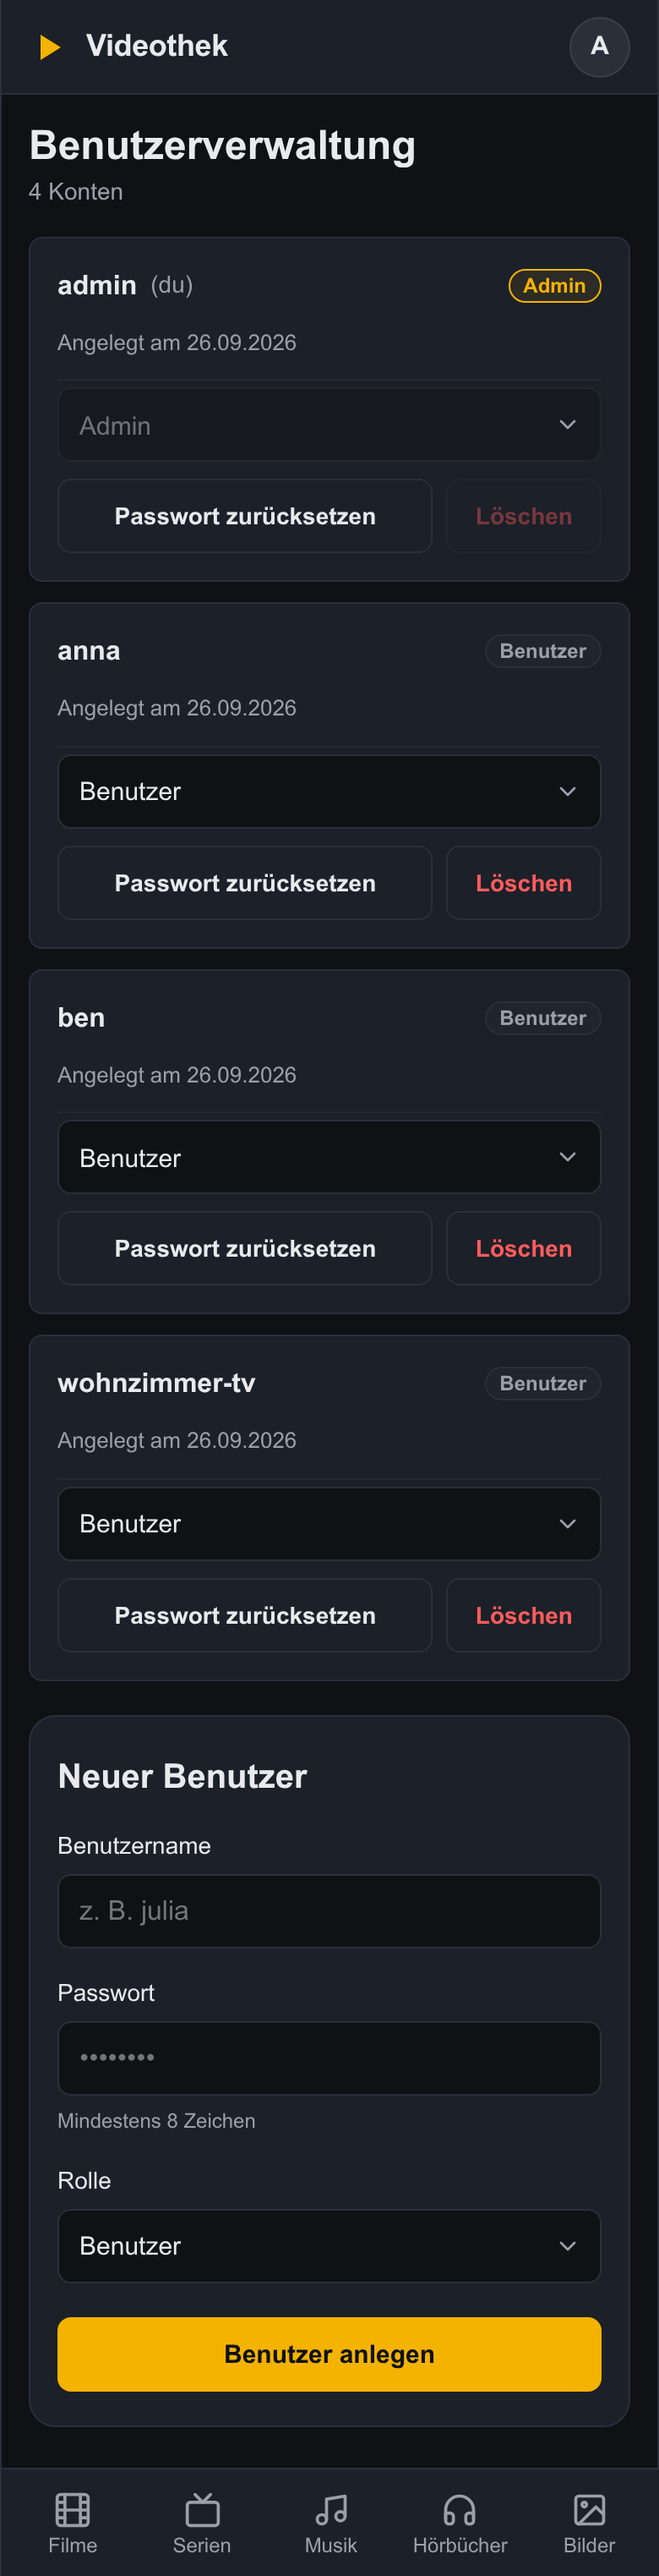
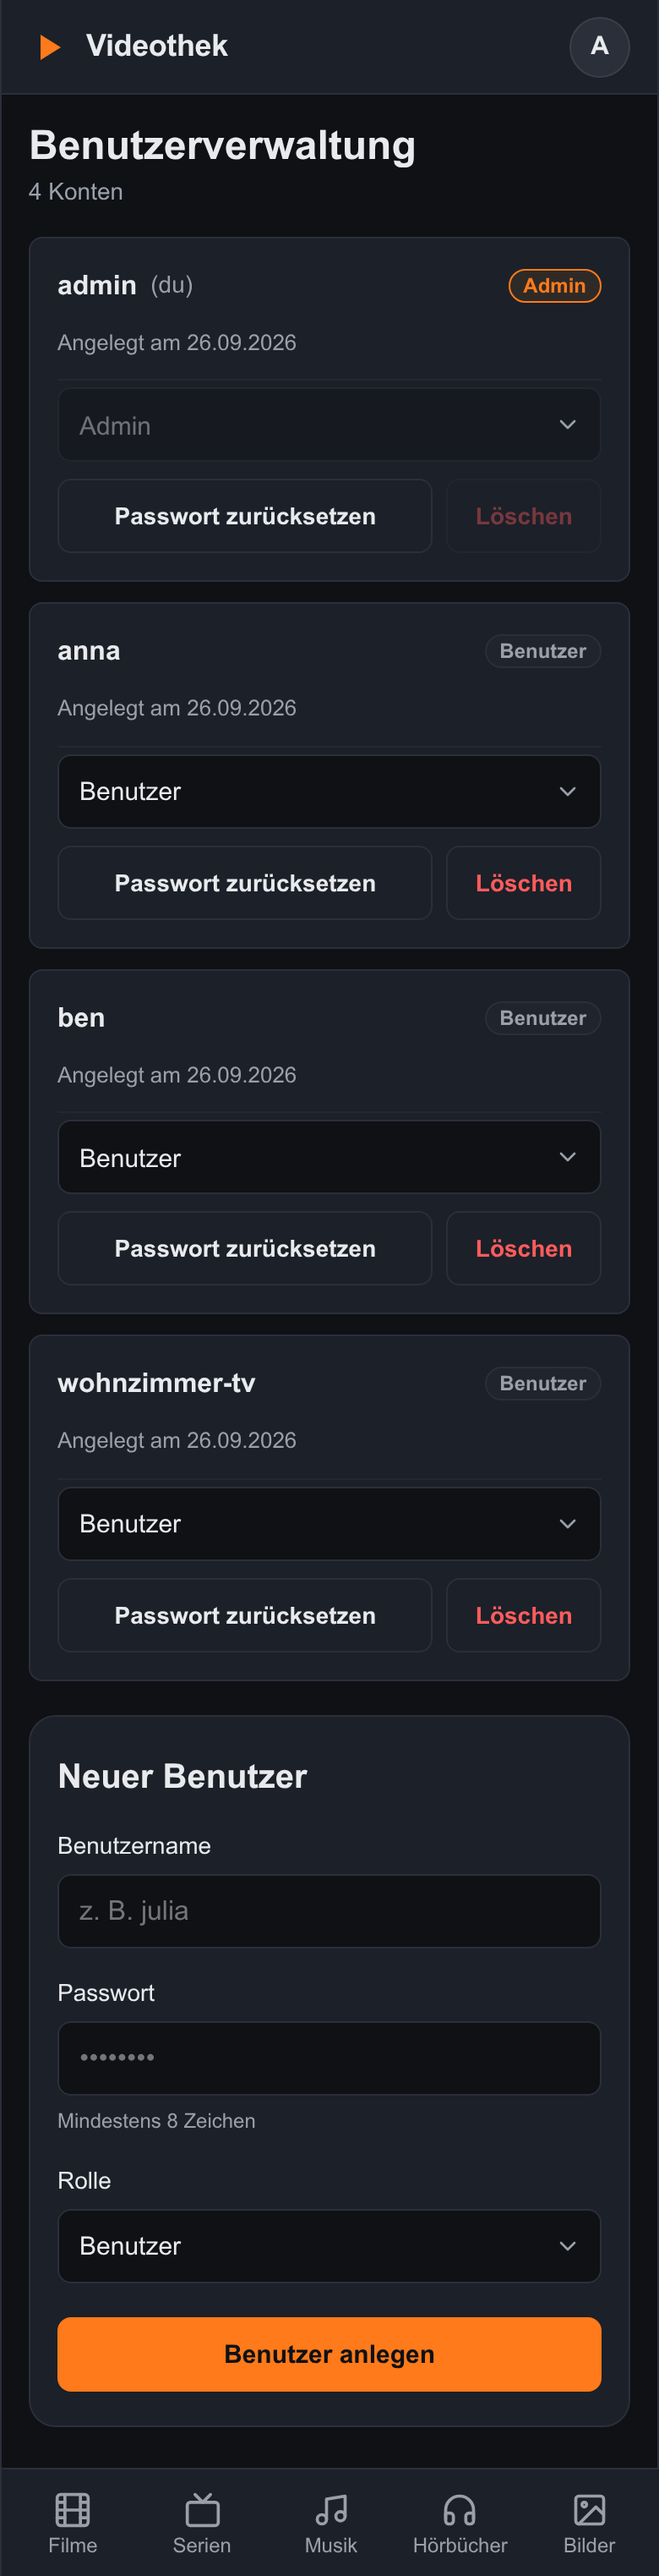
docs(design): re-export foundation-accounts mockups with primary #ff7a1a
The primary token changed from amber to vivid orange (#5); mockups and colour wording in the spec now match the design contract. Layout, copy and framing are unchanged; verified by pixel counts and side-by-side review.

Changed region(s): [[0.0615, 0.8733, 0.9231, 0.9357], [0.8, 0.0936, 0.8923, 0.1248], [0.0615, 0.0, 0.0923, 0.0312]]

diff --git a/docs/design/assets/foundation-accounts/login-desktop.html b/docs/design/assets/foundation-accounts/login-desktop.html
@@ -9,7 +9,7 @@
     :root {
       --bg: #0f1115;
       --fg: #e8eaed;
-      --primary: #f5b301;
+      --primary: #ff7a1a;
       --surface: #1c2029;
       --accent: #4fb3ff;
       --muted: #9aa0aa;
@@ -23,12 +23,12 @@
     }
   </style>
 </head>
-<body class="min-h-screen flex flex-col items-center justify-center p-6 selection:bg-[#f5b301] selection:text-[#0f1115]">
+<body class="min-h-screen flex flex-col items-center justify-center p-6 selection:bg-[#ff7a1a] selection:text-[#0f1115]">
   <main class="w-full max-w-[400px] flex flex-col items-center">
     <!-- Brand / Wordmark -->
     <header class="flex items-center gap-3 mb-8 select-none">
-      <div class="w-9 h-9 rounded-lg bg-[#f5b301]/10 flex items-center justify-center text-[#f5b301]">
-        <svg class="w-5 h-5 fill-[#f5b301] translate-x-0.5" viewBox="0 0 24 24">
+      <div class="w-9 h-9 rounded-lg bg-[#ff7a1a]/10 flex items-center justify-center text-[#ff7a1a]">
+        <svg class="w-5 h-5 fill-[#ff7a1a] translate-x-0.5" viewBox="0 0 24 24">
           <path d="M8 5v14l11-7z" />
         </svg>
       </div>
@@ -48,7 +48,7 @@
             id="username" 
             name="username" 
             value="anna" 
-            class="w-full h-11 px-3.5 bg-[#14171e] text-[#e8eaed] text-base rounded-[8px] border border-[#2a2f3a] focus:outline-none focus:border-[#f5b301] focus:ring-2 focus:ring-[#f5b301]/20 transition-colors"
+            class="w-full h-11 px-3.5 bg-[#14171e] text-[#e8eaed] text-base rounded-[8px] border border-[#2a2f3a] focus:outline-none focus:border-[#ff7a1a] focus:ring-2 focus:ring-[#ff7a1a]/20 transition-colors"
           />
         </div>
 
@@ -75,7 +75,7 @@
         <!-- Submit Button -->
         <button 
           type="submit" 
-          class="w-full h-12 mt-2 bg-[#f5b301] hover:bg-[#e0a400] active:bg-[#c99300] text-[#0f1115] font-bold text-base rounded-[8px] transition-colors focus:outline-none focus:ring-2 focus:ring-[#f5b301] focus:ring-offset-2 focus:ring-offset-[#1c2029] flex items-center justify-center cursor-pointer"
+          class="w-full h-12 mt-2 bg-[#ff7a1a] hover:bg-[#e96f17] active:bg-[#d16415] text-[#0f1115] font-bold text-base rounded-[8px] transition-colors focus:outline-none focus:ring-2 focus:ring-[#ff7a1a] focus:ring-offset-2 focus:ring-offset-[#1c2029] flex items-center justify-center cursor-pointer"
         >
           Anmelden
         </button>

diff --git a/docs/design/assets/foundation-accounts/login-mobile.html b/docs/design/assets/foundation-accounts/login-mobile.html
@@ -8,7 +8,7 @@
     :root {
       --bg: #0f1115;
       --fg: #e8eaed;
-      --primary: #f5b301;
+      --primary: #ff7a1a;
       --surface: #1c2029;
       --accent: #4fb3ff;
       --muted: #9aa0aa;
@@ -59,7 +59,7 @@
       width: 32px;
       height: 32px;
       border-radius: 8px;
-      background: rgba(245, 179, 1, 0.12);
+      background: rgba(255, 122, 26, 0.12);
     }
 
     .brand-name {
@@ -122,7 +122,7 @@
 
     .input-field:focus {
       border-color: var(--primary);
-      box-shadow: 0 0 0 2px rgba(245, 179, 1, 0.25);
+      box-shadow: 0 0 0 2px rgba(255, 122, 26, 0.25);
     }
 
     .input-field.error {
@@ -198,7 +198,7 @@
     <header class="brand-header">
       <div class="brand-logo" aria-hidden="true">
         <svg width="18" height="18" viewBox="0 0 24 24" fill="none">
-          <path d="M7 4.5V19.5L19 12L7 4.5Z" fill="#f5b301" />
+          <path d="M7 4.5V19.5L19 12L7 4.5Z" fill="#ff7a1a" />
         </svg>
       </div>
       <h1 class="brand-name">Videothek</h1>

diff --git a/docs/design/assets/foundation-accounts/shell-mobile.html b/docs/design/assets/foundation-accounts/shell-mobile.html
@@ -8,7 +8,7 @@
     :root {
       --bg: #0f1115;
       --fg: #e8eaed;
-      --primary: #f5b301;
+      --primary: #ff7a1a;
       --surface: #1c2029;
       --accent: #4fb3ff;
       --muted: #9aa0aa;
@@ -241,7 +241,7 @@
       <a href="#" class="brand" aria-label="Videothek Startseite">
         <div class="brand-icon-box" aria-hidden="true">
           <svg width="24" height="24" viewBox="0 0 24 24" fill="none" xmlns="http://www.w3.org/2000/svg">
-            <path d="M7 5.5V18.5L18 12L7 5.5Z" fill="#f5b301" stroke="#f5b301" stroke-width="2" stroke-linejoin="round"/>
+            <path d="M7 5.5V18.5L18 12L7 5.5Z" fill="#ff7a1a" stroke="#ff7a1a" stroke-width="2" stroke-linejoin="round"/>
           </svg>
         </div>
         <span class="brand-title">Videothek</span>

diff --git a/docs/design/assets/foundation-accounts/admin-users-desktop.html b/docs/design/assets/foundation-accounts/admin-users-desktop.html
@@ -8,7 +8,7 @@
 <style>:root {
     --bg: #0f1115;
     --fg: #e8eaed;
-    --primary: #f5b301;
+    --primary: #ff7a1a;
     --surface: #1c2029;
     --accent: #4fb3ff;
     --muted: #9aa0aa;
@@ -370,7 +370,7 @@ tbody td {
 <!-- Logo & Brand -->
 <a class="brand" href="#">
 <svg fill="none" height="24" viewbox="0 0 24 24" width="24" xmlns="http://www.w3.org/2000/svg">
-<path d="M5 3.868A1 1 0 0 1 6.555 3.03l13.111 8.132a1 1 0 0 1 0 1.676L6.555 20.97A1 1 0 0 1 5 20.132V3.868z" fill="#f5b301"></path>
+<path d="M5 3.868A1 1 0 0 1 6.555 3.03l13.111 8.132a1 1 0 0 1 0 1.676L6.555 20.97A1 1 0 0 1 5 20.132V3.868z" fill="#ff7a1a"></path>
 </svg>
 <span>Videothek</span>
 </a>

diff --git a/docs/design/assets/foundation-accounts/admin-users-mobile.html b/docs/design/assets/foundation-accounts/admin-users-mobile.html
@@ -8,7 +8,7 @@
     :root {
       --bg: #0f1115;
       --foreground: #e8eaed;
-      --primary: #f5b301;
+      --primary: #ff7a1a;
       --surface: #1c2029;
       --accent: #4fb3ff;
       --muted: #9aa0aa;
@@ -177,7 +177,7 @@
     .badge-admin {
       color: var(--primary);
       border: 1px solid var(--primary);
-      background-color: rgba(245, 179, 1, 0.08);
+      background-color: rgba(255, 122, 26, 0.08);
     }
 
     .badge-benutzer {

diff --git a/docs/design/assets/foundation-accounts/shell-desktop.html b/docs/design/assets/foundation-accounts/shell-desktop.html
@@ -8,7 +8,7 @@
     :root {
       --bg: #0f1115;
       --fg: #e8eaed;
-      --primary: #f5b301;
+      --primary: #ff7a1a;
       --surface: #1c2029;
       --accent: #4fb3ff;
       --muted: #9aa0aa;

diff --git a/docs/specs/spec-foundation-accounts.md b/docs/specs/spec-foundation-accounts.md
@@ -148,7 +148,7 @@ Implementation notes that override the exports:
   "Benutzerverwaltung" (admins only, link `/admin`), "Abmelden" (button).
   Escape or outside click closes it and returns focus to the button.
 - Nav is `<nav aria-label="Kategorien">` of links; active entry carries
-  `aria-current="page"` (amber); Left/Right arrows move focus between entries.
+  `aria-current="page"` (primary, orange); Left/Right arrows move focus between entries.
 - Admin dialogs use native `<dialog>`: delete confirm "„{name}“ wirklich
   löschen? Der Wiedergabefortschritt dieses Kontos geht verloren." with
   "Abbrechen" / "Löschen" (danger); password reset "Neues Passwort für
@@ -346,8 +346,8 @@ Chromium and Firefox, mobile ≤ 767 px and desktop ≥ 1024 px viewport):
       the error; the 6th wrong attempt shows the throttle message; `next`
       is honoured, `next=//evil.example` falls back to `/`.
 - [ ] Shell: bottom nav on mobile, top nav on desktop; each category entry opens
-      its placeholder with the entry active in amber; home shows the start
-      placeholder; Tab reaches every control with a visible amber focus ring;
+      its placeholder with the entry active in primary (orange); home shows the start
+      placeholder; Tab reaches every control with a visible primary (orange) focus ring;
       arrows move within the nav; Escape closes the account menu.
 - [ ] Admin: create a user (errors for 7-character password, duplicate name,
       invalid characters), change a role, reset a password (a second browser
